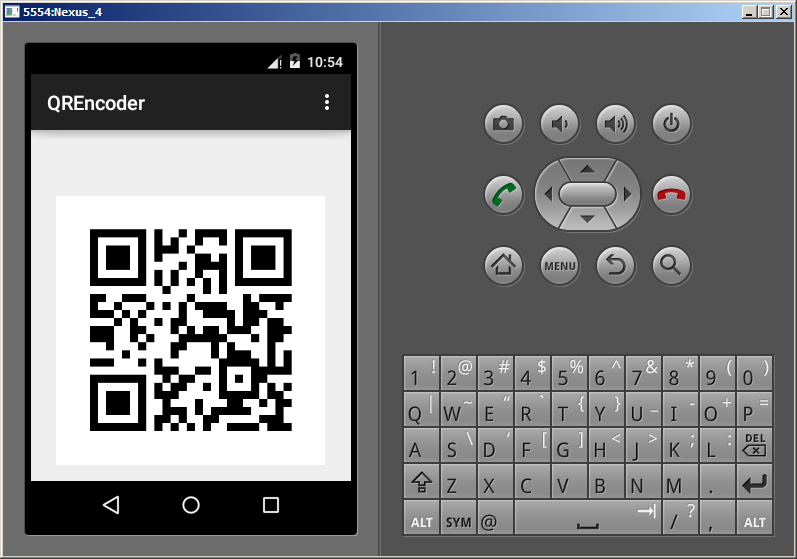
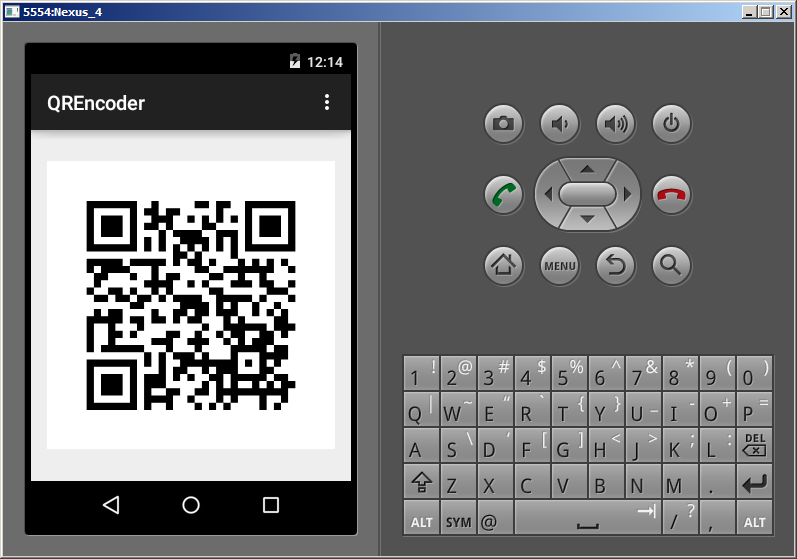
Center-align the QR-encoded image

Changed region(s): [[0.0903, 0.3345, 0.3915, 0.7907], [0.3915, 0.0912, 0.4216, 0.1216], [0.3312, 0.0912, 0.3614, 0.1216]]

diff --git a/QREncoder/src/de/afarber/qrencoder/MainActivity.java b/QREncoder/src/de/afarber/qrencoder/MainActivity.java
@@ -1,8 +1,5 @@
 package de.afarber.qrencoder;
 
-import java.util.EnumMap;
-import java.util.Map;
-
 import android.graphics.Bitmap;
 import android.os.Bundle;
 import android.support.v7.app.AppCompatActivity;
@@ -11,7 +8,6 @@ import android.view.MenuItem;
 import android.widget.ImageView;
 
 import com.google.zxing.BarcodeFormat;
-import com.google.zxing.EncodeHintType;
 import com.google.zxing.MultiFormatWriter;
 import com.google.zxing.WriterException;
 import com.google.zxing.common.BitMatrix;
@@ -20,14 +16,15 @@ public class MainActivity extends AppCompatActivity {
 	
 	public final static int WHITE = 0xFFFFFFFF;
 	public final static int BLACK = 0xFF000000;
-	public final static int WIDTH = 500;
+	public final static int WIDTH = 400;
+	public final static int HEIGHT = 400;
 	public final static String STR = "A string to be encoded as QR code";
 
 	@Override
 	protected void onCreate(Bundle savedInstanceState) {
 		super.onCreate(savedInstanceState);
 		setContentView(R.layout.activity_main);
-		ImageView imageView = (ImageView) findViewById(R.id.qrCode);
+		ImageView imageView = (ImageView) findViewById(R.id.myImage);
 		try {
 		    Bitmap bitmap = encodeAsBitmap(STR);
 		    imageView.setImageBitmap(bitmap);
@@ -39,11 +36,12 @@ public class MainActivity extends AppCompatActivity {
 	Bitmap encodeAsBitmap(String str) throws WriterException {
 		BitMatrix result;
 		try {
-			result = new MultiFormatWriter().encode(str, BarcodeFormat.QR_CODE, WIDTH, WIDTH, null);
+			result = new MultiFormatWriter().encode(str, BarcodeFormat.QR_CODE, WIDTH, HEIGHT, null);
 		} catch (IllegalArgumentException iae) {
 			// Unsupported format
 			return null;
 		}
+		
 		int width = result.getWidth();
 		int height = result.getHeight();
 		int[] pixels = new int[width * height];
@@ -53,6 +51,7 @@ public class MainActivity extends AppCompatActivity {
 				pixels[offset + x] = result.get(x, y) ? BLACK : WHITE;
 			}
 		}
+		
 		Bitmap bitmap = Bitmap.createBitmap(width, height, Bitmap.Config.ARGB_8888);
 		bitmap.setPixels(pixels, 0, width, 0, 0, width, height);
 		return bitmap;
